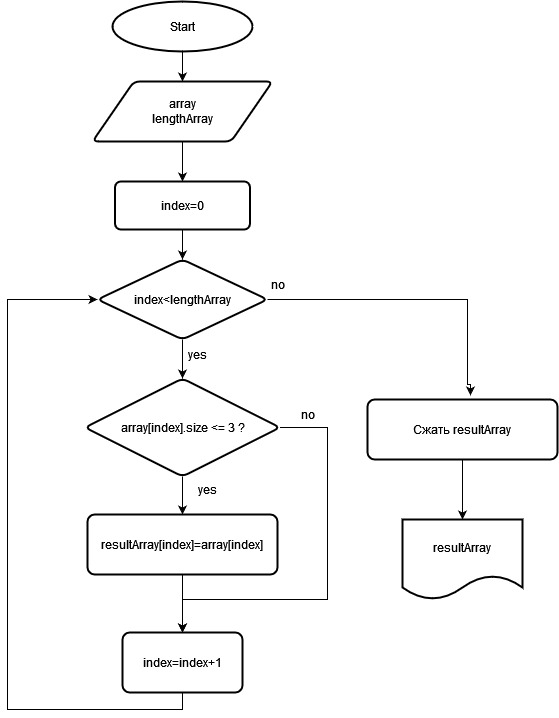
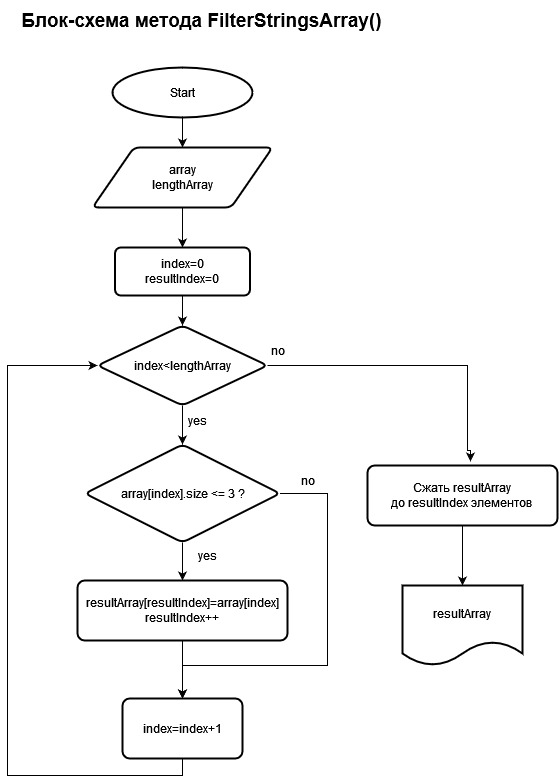
Исправление блок-схемы

diff --git a/FilterStrings/Program.cs b/FilterStrings/Program.cs
@@ -48,16 +48,16 @@ Console.WriteLine("Введите строки в массив (не более 
 var k = 0;
 while (true)
 {
+    Console.Write("Строка: ");
+    var s = Console.ReadLine();
+    if (string.IsNullOrEmpty(s))
+        break;
+
     if (k >= MaxStrings)
     {
         Console.WriteLine("Ошибка! Введено слишком много строк");
         return;
     }
-
-    Console.Write("Строка: ");
-    var s = Console.ReadLine();
-    if (string.IsNullOrEmpty(s))
-        break;
 
     inputArray[k] = s;
     k++;
@@ -69,15 +69,6 @@ void PrintStringArray(string[] arr)
     Console.Write(string.Join(", ", arr.Select(x => $"\"{x}\"")));
     Console.WriteLine("]");
 }
-
-// inputArray = new[] { "Hello", "2", "world", ":-)" };
-// k = 4;
-
-// inputArray = new[] { "1234", "1567", "-2", "computer science" };
-// k = 4;
-
-// // inputArray = new[] { "Russia", "Denmark", "Kazan" };
-// // k = 3;
 
 var array = ShrinkArray(inputArray, k);
 PrintStringArray(array);
